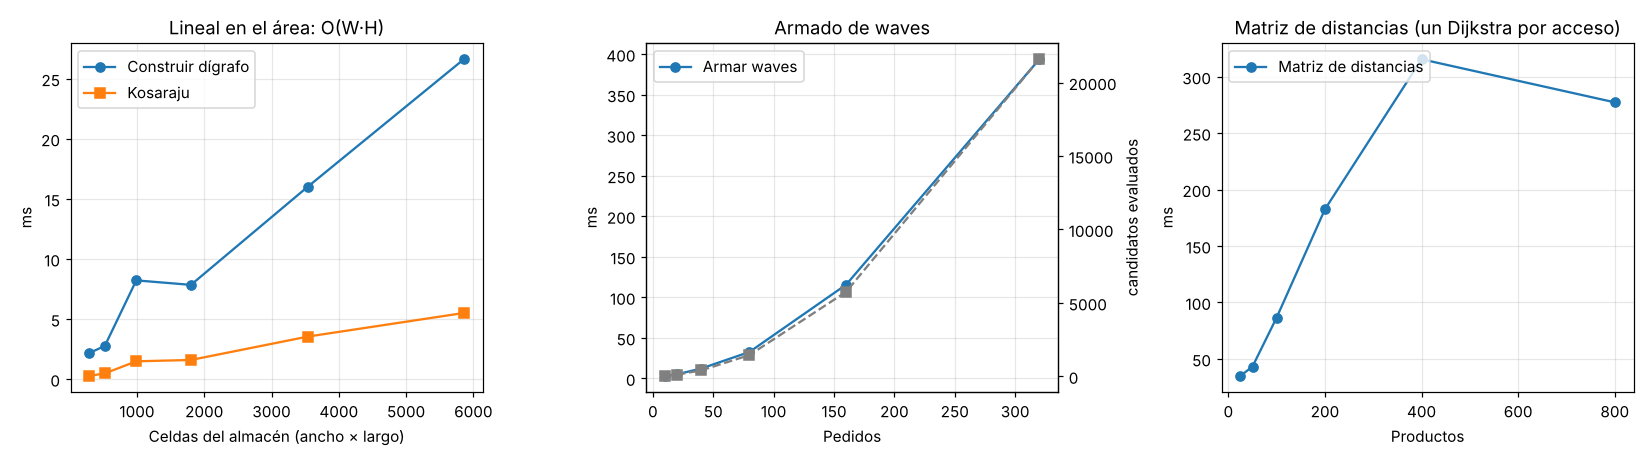
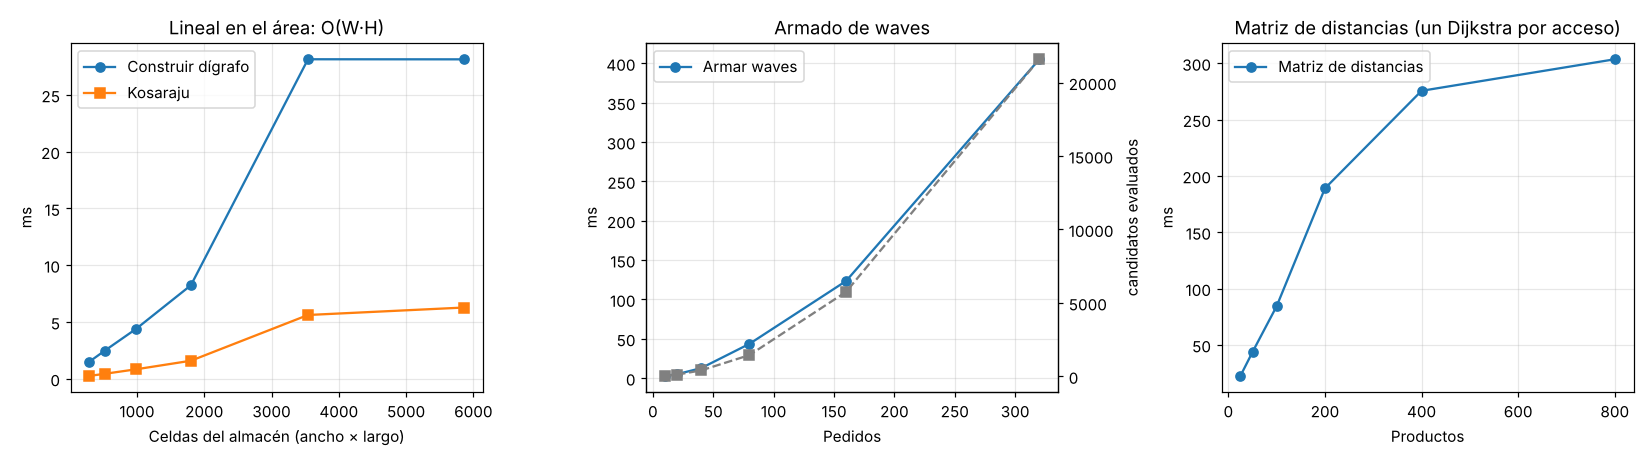
Experimentos con mediana de 5 corridas e informe actualizado
Claude-Session: https://claude.ai/code/session_01WT7RMUbr26hWHng93PW8B9

diff --git a/experimentos/ejecutar_experimentos.py b/experimentos/ejecutar_experimentos.py
@@ -48,7 +48,7 @@ SERIES = {
 }
 
 
-def medir(params, repeticiones=3):
+def medir(params, repeticiones=5):
     datos = ScenarioGenerator.generar_escenario_dict(**params)
     # Construcción del dígrafo + Kosaraju (mediana de varias corridas).
     tiempos, tiempos_kos = [], []

diff --git a/docs/experimentos/resultados.md b/docs/experimentos/resultados.md
@@ -8,109 +8,109 @@ Escenario base: {'cantidad_estantes': 24, 'cantidad_pasillos': 7, 'cantidad_prod
 
 | Valor | Celdas | Nodos | Productos | Pedidos | Waves | Estrategia | Distancia | Nodos visitados | Nodos explorados | Nodos expandidos | Rutas (ms) | Turnos | Esperas |
 |---|---|---|---|---|---|---|---|---|---|---|---|---|---|
-| 6 | 294 | 211 | 200 | 40 | 13 | Orden | 1870 | 931 | 2704 | 10957 | 23.50 | 502 | 9 |
-| 6 | 294 | 211 | 200 | 40 | 13 | Cercanía | 864 | 771 | 2414 | 4446 | 7.56 | 256 | 4 |
-| 12 | 522 | 356 | 200 | 40 | 13 | Orden | 3308 | 1751 | 4618 | 27309 | 37.85 | 862 | 11 |
-| 12 | 522 | 356 | 200 | 40 | 13 | Cercanía | 1492 | 1354 | 4444 | 10751 | 14.56 | 446 | 1 |
-| 24 | 990 | 680 | 200 | 40 | 13 | Orden | 2416 | 1530 | 7631 | 22505 | 33.17 | 643 | 0 |
-| 24 | 990 | 680 | 200 | 40 | 13 | Cercanía | 1590 | 1372 | 7051 | 15063 | 20.96 | 454 | 2 |
-| 48 | 1802 | 1204 | 200 | 40 | 13 | Orden | 3010 | 2164 | 13014 | 41407 | 87.74 | 815 | 2 |
-| 48 | 1802 | 1204 | 200 | 40 | 13 | Cercanía | 2106 | 1890 | 12304 | 25997 | 57.38 | 541 | 0 |
-| 96 | 3542 | 2368 | 200 | 40 | 14 | Orden | 4242 | 3351 | 28253 | 81046 | 124.38 | 1232 | 2 |
-| 96 | 3542 | 2368 | 200 | 40 | 14 | Cercanía | 3120 | 2942 | 25355 | 52632 | 80.33 | 897 | 0 |
-| 160 | 5858 | 3916 | 200 | 40 | 13 | Orden | 5250 | 4189 | 40321 | 130665 | 219.45 | 1365 | 2 |
-| 160 | 5858 | 3916 | 200 | 40 | 13 | Cercanía | 3820 | 3618 | 39416 | 86087 | 129.41 | 1011 | 0 |
+| 6 | 294 | 211 | 200 | 40 | 13 | Orden | 1870 | 931 | 2704 | 10957 | 16.33 | 502 | 9 |
+| 6 | 294 | 211 | 200 | 40 | 13 | Cercanía | 864 | 771 | 2414 | 4446 | 7.03 | 256 | 4 |
+| 12 | 522 | 356 | 200 | 40 | 13 | Orden | 3308 | 1751 | 4618 | 27309 | 36.09 | 862 | 11 |
+| 12 | 522 | 356 | 200 | 40 | 13 | Cercanía | 1492 | 1354 | 4444 | 10751 | 14.39 | 446 | 1 |
+| 24 | 990 | 680 | 200 | 40 | 13 | Orden | 2416 | 1530 | 7631 | 22505 | 30.17 | 643 | 0 |
+| 24 | 990 | 680 | 200 | 40 | 13 | Cercanía | 1590 | 1372 | 7051 | 15063 | 20.54 | 454 | 2 |
+| 48 | 1802 | 1204 | 200 | 40 | 13 | Orden | 3010 | 2164 | 13014 | 41407 | 58.32 | 815 | 2 |
+| 48 | 1802 | 1204 | 200 | 40 | 13 | Cercanía | 2106 | 1890 | 12304 | 25997 | 40.49 | 541 | 0 |
+| 96 | 3542 | 2368 | 200 | 40 | 14 | Orden | 4242 | 3351 | 28253 | 81046 | 119.30 | 1232 | 2 |
+| 96 | 3542 | 2368 | 200 | 40 | 14 | Cercanía | 3120 | 2942 | 25355 | 52632 | 77.79 | 897 | 0 |
+| 160 | 5858 | 3916 | 200 | 40 | 13 | Orden | 5250 | 4189 | 40321 | 130665 | 197.10 | 1365 | 2 |
+| 160 | 5858 | 3916 | 200 | 40 | 13 | Cercanía | 3820 | 3618 | 39416 | 86087 | 129.21 | 1011 | 0 |
 
 ### Cantidad de pedidos
 
 | Valor | Celdas | Nodos | Productos | Pedidos | Waves | Estrategia | Distancia | Nodos visitados | Nodos explorados | Nodos expandidos | Rutas (ms) | Turnos | Esperas |
 |---|---|---|---|---|---|---|---|---|---|---|---|---|---|
-| 10 | 962 | 652 | 200 | 10 | 3 | Orden | 464 | 260 | 1098 | 3889 | 5.36 | 146 | 0 |
-| 10 | 962 | 652 | 200 | 10 | 3 | Cercanía | 288 | 220 | 1065 | 2523 | 3.56 | 117 | 0 |
-| 20 | 962 | 652 | 200 | 20 | 6 | Orden | 1032 | 572 | 2676 | 9218 | 13.25 | 355 | 1 |
-| 20 | 962 | 652 | 200 | 20 | 6 | Cercanía | 552 | 473 | 2336 | 4738 | 6.93 | 176 | 0 |
-| 40 | 962 | 652 | 200 | 40 | 13 | Orden | 2448 | 1647 | 7271 | 24183 | 34.82 | 631 | 2 |
-| 40 | 962 | 652 | 200 | 40 | 13 | Cercanía | 1590 | 1419 | 7104 | 15680 | 22.22 | 431 | 0 |
-| 80 | 962 | 652 | 200 | 80 | 27 | Orden | 4510 | 3022 | 14603 | 45054 | 64.47 | 1213 | 2 |
-| 80 | 962 | 652 | 200 | 80 | 27 | Cercanía | 2720 | 2520 | 13217 | 25374 | 37.29 | 733 | 1 |
-| 160 | 962 | 652 | 200 | 160 | 52 | Orden | 8034 | 5648 | 28159 | 78779 | 109.32 | 2123 | 5 |
-| 160 | 962 | 652 | 200 | 160 | 52 | Cercanía | 5572 | 5080 | 26542 | 54039 | 76.79 | 1469 | 3 |
-| 320 | 962 | 652 | 200 | 320 | 100 | Orden | 13936 | 10597 | 54851 | 140030 | 221.02 | 3599 | 7 |
-| 320 | 962 | 652 | 200 | 320 | 100 | Cercanía | 10046 | 9272 | 51897 | 99753 | 151.46 | 2604 | 7 |
+| 10 | 962 | 652 | 200 | 10 | 3 | Orden | 464 | 260 | 1098 | 3889 | 5.30 | 146 | 0 |
+| 10 | 962 | 652 | 200 | 10 | 3 | Cercanía | 288 | 220 | 1065 | 2523 | 3.54 | 117 | 0 |
+| 20 | 962 | 652 | 200 | 20 | 6 | Orden | 1032 | 572 | 2676 | 9218 | 13.70 | 355 | 1 |
+| 20 | 962 | 652 | 200 | 20 | 6 | Cercanía | 552 | 473 | 2336 | 4738 | 7.54 | 176 | 0 |
+| 40 | 962 | 652 | 200 | 40 | 13 | Orden | 2448 | 1647 | 7271 | 24183 | 44.96 | 631 | 2 |
+| 40 | 962 | 652 | 200 | 40 | 13 | Cercanía | 1590 | 1419 | 7104 | 15680 | 30.16 | 431 | 0 |
+| 80 | 962 | 652 | 200 | 80 | 27 | Orden | 4510 | 3022 | 14603 | 45054 | 63.63 | 1213 | 2 |
+| 80 | 962 | 652 | 200 | 80 | 27 | Cercanía | 2720 | 2520 | 13217 | 25374 | 36.25 | 733 | 1 |
+| 160 | 962 | 652 | 200 | 160 | 52 | Orden | 8034 | 5648 | 28159 | 78779 | 110.18 | 2123 | 5 |
+| 160 | 962 | 652 | 200 | 160 | 52 | Cercanía | 5572 | 5080 | 26542 | 54039 | 87.66 | 1469 | 3 |
+| 320 | 962 | 652 | 200 | 320 | 100 | Orden | 13936 | 10597 | 54851 | 140030 | 198.81 | 3599 | 7 |
+| 320 | 962 | 652 | 200 | 320 | 100 | Cercanía | 10046 | 9272 | 51897 | 99753 | 145.29 | 2604 | 7 |
 
 ### Cantidad de productos
 
 | Valor | Celdas | Nodos | Productos | Pedidos | Waves | Estrategia | Distancia | Nodos visitados | Nodos explorados | Nodos expandidos | Rutas (ms) | Turnos | Esperas |
 |---|---|---|---|---|---|---|---|---|---|---|---|---|---|
-| 25 | 962 | 652 | 25 | 40 | 13 | Orden | 2414 | 2037 | 8400 | 28378 | 53.93 | 643 | 2 |
-| 25 | 962 | 652 | 25 | 40 | 13 | Cercanía | 1784 | 1657 | 8121 | 18684 | 27.21 | 496 | 1 |
-| 50 | 962 | 652 | 50 | 40 | 13 | Orden | 2574 | 2068 | 8143 | 28032 | 39.58 | 712 | 1 |
-| 50 | 962 | 652 | 50 | 40 | 13 | Cercanía | 2008 | 1771 | 8090 | 19848 | 30.13 | 567 | 0 |
-| 100 | 962 | 652 | 100 | 40 | 13 | Orden | 3904 | 2689 | 8375 | 48185 | 68.17 | 1067 | 3 |
-| 100 | 962 | 652 | 100 | 40 | 13 | Cercanía | 2264 | 1999 | 8150 | 22857 | 33.10 | 612 | 0 |
-| 200 | 962 | 652 | 200 | 40 | 13 | Orden | 2448 | 1647 | 7271 | 24183 | 33.28 | 631 | 2 |
-| 200 | 962 | 652 | 200 | 40 | 13 | Cercanía | 1590 | 1419 | 7104 | 15680 | 22.60 | 431 | 0 |
-| 400 | 962 | 652 | 400 | 40 | 13 | Orden | 3416 | 2269 | 8413 | 38147 | 56.47 | 901 | 5 |
-| 400 | 962 | 652 | 400 | 40 | 13 | Cercanía | 2216 | 1899 | 8296 | 22632 | 34.21 | 658 | 0 |
-| 800 | 962 | 652 | 800 | 40 | 13 | Orden | 3446 | 2432 | 8294 | 38371 | 55.31 | 894 | 1 |
-| 800 | 962 | 652 | 800 | 40 | 13 | Cercanía | 2038 | 1858 | 7894 | 19768 | 28.44 | 587 | 0 |
+| 25 | 962 | 652 | 25 | 40 | 13 | Orden | 2414 | 2037 | 8400 | 28378 | 39.38 | 643 | 2 |
+| 25 | 962 | 652 | 25 | 40 | 13 | Cercanía | 1784 | 1657 | 8121 | 18684 | 26.66 | 496 | 1 |
+| 50 | 962 | 652 | 50 | 40 | 13 | Orden | 2574 | 2068 | 8143 | 28032 | 40.25 | 712 | 1 |
+| 50 | 962 | 652 | 50 | 40 | 13 | Cercanía | 2008 | 1771 | 8090 | 19848 | 31.99 | 567 | 0 |
+| 100 | 962 | 652 | 100 | 40 | 13 | Orden | 3904 | 2689 | 8375 | 48185 | 76.08 | 1067 | 3 |
+| 100 | 962 | 652 | 100 | 40 | 13 | Cercanía | 2264 | 1999 | 8150 | 22857 | 34.06 | 612 | 0 |
+| 200 | 962 | 652 | 200 | 40 | 13 | Orden | 2448 | 1647 | 7271 | 24183 | 47.59 | 631 | 2 |
+| 200 | 962 | 652 | 200 | 40 | 13 | Cercanía | 1590 | 1419 | 7104 | 15680 | 22.23 | 431 | 0 |
+| 400 | 962 | 652 | 400 | 40 | 13 | Orden | 3416 | 2269 | 8413 | 38147 | 53.48 | 901 | 5 |
+| 400 | 962 | 652 | 400 | 40 | 13 | Cercanía | 2216 | 1899 | 8296 | 22632 | 33.70 | 658 | 0 |
+| 800 | 962 | 652 | 800 | 40 | 13 | Orden | 3446 | 2432 | 8294 | 38371 | 54.85 | 894 | 1 |
+| 800 | 962 | 652 | 800 | 40 | 13 | Cercanía | 2038 | 1858 | 7894 | 19768 | 30.05 | 587 | 0 |
 
 ### Localización de los productos
 
 | Valor | Celdas | Nodos | Productos | Pedidos | Waves | Estrategia | Distancia | Nodos visitados | Nodos explorados | Nodos expandidos | Rutas (ms) | Turnos | Esperas |
 |---|---|---|---|---|---|---|---|---|---|---|---|---|---|
-| CERCA_DESPACHO | 962 | 652 | 200 | 40 | 13 | Orden | 3594 | 2228 | 8323 | 44972 | 92.67 | 1010 | 4 |
-| CERCA_DESPACHO | 962 | 652 | 200 | 40 | 13 | Cercanía | 1902 | 1717 | 8035 | 19537 | 32.92 | 505 | 2 |
-| POR_RACK | 962 | 652 | 200 | 40 | 12 | Orden | 3242 | 1539 | 7604 | 39588 | 59.96 | 857 | 1 |
-| POR_RACK | 962 | 652 | 200 | 40 | 12 | Cercanía | 1476 | 1281 | 6866 | 15772 | 24.56 | 412 | 0 |
-| DISTRIBUIDA | 962 | 652 | 200 | 40 | 13 | Orden | 2448 | 1647 | 7271 | 24183 | 34.11 | 631 | 2 |
-| DISTRIBUIDA | 962 | 652 | 200 | 40 | 13 | Cercanía | 1590 | 1419 | 7104 | 15680 | 22.14 | 431 | 0 |
+| CERCA_DESPACHO | 962 | 652 | 200 | 40 | 13 | Orden | 3594 | 2228 | 8323 | 44972 | 106.65 | 1010 | 4 |
+| CERCA_DESPACHO | 962 | 652 | 200 | 40 | 13 | Cercanía | 1902 | 1717 | 8035 | 19537 | 44.72 | 505 | 2 |
+| POR_RACK | 962 | 652 | 200 | 40 | 12 | Orden | 3242 | 1539 | 7604 | 39588 | 56.04 | 857 | 1 |
+| POR_RACK | 962 | 652 | 200 | 40 | 12 | Cercanía | 1476 | 1281 | 6866 | 15772 | 22.87 | 412 | 0 |
+| DISTRIBUIDA | 962 | 652 | 200 | 40 | 13 | Orden | 2448 | 1647 | 7271 | 24183 | 33.82 | 631 | 2 |
+| DISTRIBUIDA | 962 | 652 | 200 | 40 | 13 | Cercanía | 1590 | 1419 | 7104 | 15680 | 22.68 | 431 | 0 |
 
 ### Cantidad de pasillos
 
 | Valor | Celdas | Nodos | Productos | Pedidos | Waves | Estrategia | Distancia | Nodos visitados | Nodos explorados | Nodos expandidos | Rutas (ms) | Turnos | Esperas |
 |---|---|---|---|---|---|---|---|---|---|---|---|---|---|
-| 3 | 1010 | 711 | 200 | 40 | 13 | Orden | 3368 | 2265 | 7660 | 19712 | 24.36 | 878 | 0 |
-| 3 | 1010 | 711 | 200 | 40 | 13 | Cercanía | 2686 | 2278 | 7339 | 15687 | 21.18 | 695 | 7 |
-| 5 | 954 | 644 | 200 | 40 | 12 | Orden | 2466 | 1601 | 6763 | 20786 | 28.51 | 697 | 1 |
-| 5 | 954 | 644 | 200 | 40 | 12 | Cercanía | 1522 | 1376 | 5823 | 12444 | 17.26 | 442 | 2 |
-| 7 | 962 | 652 | 200 | 40 | 13 | Orden | 2448 | 1647 | 7271 | 24183 | 35.94 | 631 | 2 |
-| 7 | 962 | 652 | 200 | 40 | 13 | Cercanía | 1590 | 1419 | 7104 | 15680 | 22.86 | 431 | 0 |
-| 9 | 986 | 676 | 200 | 40 | 13 | Orden | 2294 | 1505 | 7568 | 23444 | 41.90 | 623 | 1 |
-| 9 | 986 | 676 | 200 | 40 | 13 | Cercanía | 1382 | 1192 | 6561 | 12718 | 21.45 | 404 | 1 |
-| 13 | 1050 | 740 | 200 | 40 | 13 | Orden | 2222 | 1355 | 7237 | 23058 | 32.01 | 665 | 1 |
-| 13 | 1050 | 740 | 200 | 40 | 13 | Cercanía | 1288 | 1081 | 6307 | 12522 | 17.77 | 350 | 0 |
-| 17 | 1386 | 1076 | 200 | 40 | 13 | Orden | 2482 | 1535 | 9347 | 30738 | 53.22 | 875 | 1 |
-| 17 | 1386 | 1076 | 200 | 40 | 13 | Cercanía | 1394 | 1256 | 9490 | 15551 | 22.64 | 442 | 3 |
+| 3 | 1010 | 711 | 200 | 40 | 13 | Orden | 3368 | 2265 | 7660 | 19712 | 25.59 | 878 | 0 |
+| 3 | 1010 | 711 | 200 | 40 | 13 | Cercanía | 2686 | 2278 | 7339 | 15687 | 21.60 | 695 | 7 |
+| 5 | 954 | 644 | 200 | 40 | 12 | Orden | 2466 | 1601 | 6763 | 20786 | 29.19 | 697 | 1 |
+| 5 | 954 | 644 | 200 | 40 | 12 | Cercanía | 1522 | 1376 | 5823 | 12444 | 17.41 | 442 | 2 |
+| 7 | 962 | 652 | 200 | 40 | 13 | Orden | 2448 | 1647 | 7271 | 24183 | 34.68 | 631 | 2 |
+| 7 | 962 | 652 | 200 | 40 | 13 | Cercanía | 1590 | 1419 | 7104 | 15680 | 22.04 | 431 | 0 |
+| 9 | 986 | 676 | 200 | 40 | 13 | Orden | 2294 | 1505 | 7568 | 23444 | 33.67 | 623 | 1 |
+| 9 | 986 | 676 | 200 | 40 | 13 | Cercanía | 1382 | 1192 | 6561 | 12718 | 18.71 | 404 | 1 |
+| 13 | 1050 | 740 | 200 | 40 | 13 | Orden | 2222 | 1355 | 7237 | 23058 | 36.34 | 665 | 1 |
+| 13 | 1050 | 740 | 200 | 40 | 13 | Cercanía | 1288 | 1081 | 6307 | 12522 | 19.38 | 350 | 0 |
+| 17 | 1386 | 1076 | 200 | 40 | 13 | Orden | 2482 | 1535 | 9347 | 30738 | 45.14 | 875 | 1 |
+| 17 | 1386 | 1076 | 200 | 40 | 13 | Cercanía | 1394 | 1256 | 9490 | 15551 | 23.70 | 442 | 3 |
 
 ### Tiempo de cada etapa (estrategia Cercanía)
 
 | Serie | Valor | Celdas | Nodos | Aristas | Dígrafo (ms) | Kosaraju (ms) | Matriz (ms) | Pares matriz | Waves (ms) | Candidatos evaluados |
 |---|---|---|---|---|---|---|---|---|---|---|
-| tamano | 6 | 294 | 211 | 552 | 2.18 | 0.27 | 23.1 | 5184 | 12.28 | 383 |
-| tamano | 12 | 522 | 356 | 900 | 2.76 | 0.48 | 70.8 | 20736 | 11.21 | 402 |
-| tamano | 24 | 990 | 680 | 1754 | 8.22 | 1.48 | 252.0 | 40000 | 14.52 | 423 |
-| tamano | 48 | 1802 | 1204 | 3090 | 7.84 | 1.59 | 412.1 | 40000 | 11.27 | 381 |
-| tamano | 96 | 3542 | 2368 | 6150 | 16.03 | 3.54 | 698.7 | 40000 | 12.16 | 371 |
-| tamano | 160 | 5858 | 3916 | 10238 | 26.62 | 5.50 | 1161.0 | 40000 | 13.04 | 350 |
-| pedidos | 10 | 962 | 652 | 1678 | 4.60 | 0.84 | 182.9 | 40000 | 3.05 | 30 |
-| pedidos | 20 | 962 | 652 | 1678 | 4.70 | 0.83 | 186.2 | 40000 | 5.06 | 115 |
-| pedidos | 40 | 962 | 652 | 1678 | 4.45 | 0.82 | 184.5 | 40000 | 12.10 | 404 |
-| pedidos | 80 | 962 | 652 | 1678 | 4.70 | 0.87 | 182.0 | 40000 | 32.61 | 1447 |
-| pedidos | 160 | 962 | 652 | 1678 | 4.83 | 0.85 | 176.0 | 40000 | 115.56 | 5752 |
-| pedidos | 320 | 962 | 652 | 1678 | 5.09 | 0.87 | 176.8 | 40000 | 393.69 | 21592 |
-| productos | 25 | 962 | 652 | 1678 | 4.39 | 0.84 | 34.9 | 625 | 12.07 | 405 |
-| productos | 50 | 962 | 652 | 1678 | 4.33 | 0.84 | 43.2 | 2500 | 7.78 | 365 |
-| productos | 100 | 962 | 652 | 1678 | 4.43 | 0.85 | 86.6 | 10000 | 9.06 | 367 |
-| productos | 200 | 962 | 652 | 1678 | 4.45 | 0.85 | 182.6 | 40000 | 11.51 | 404 |
-| productos | 400 | 962 | 652 | 1678 | 4.77 | 0.83 | 315.5 | 82944 | 13.14 | 340 |
-| productos | 800 | 962 | 652 | 1678 | 5.56 | 0.84 | 277.3 | 82944 | 21.28 | 374 |
-| localizacion | CERCA_DESPACHO | 962 | 652 | 1678 | 5.22 | 1.36 | 208.1 | 40000 | 11.10 | 389 |
-| localizacion | POR_RACK | 962 | 652 | 1678 | 4.67 | 0.92 | 184.2 | 40000 | 10.26 | 357 |
-| localizacion | DISTRIBUIDA | 962 | 652 | 1678 | 4.82 | 0.87 | 191.0 | 40000 | 11.91 | 404 |
-| pasillos | 3 | 1010 | 711 | 1720 | 4.74 | 0.83 | 200.6 | 40000 | 11.17 | 392 |
-| pasillos | 5 | 954 | 644 | 1602 | 4.37 | 0.78 | 179.3 | 40000 | 14.42 | 381 |
-| pasillos | 7 | 962 | 652 | 1678 | 4.47 | 0.82 | 184.7 | 40000 | 11.20 | 404 |
-| pasillos | 9 | 986 | 676 | 1788 | 4.94 | 1.00 | 200.0 | 40000 | 11.73 | 400 |
-| pasillos | 13 | 1050 | 740 | 2042 | 6.36 | 1.50 | 221.1 | 40000 | 11.38 | 402 |
-| pasillos | 17 | 1386 | 1076 | 3242 | 7.91 | 1.52 | 298.7 | 40000 | 11.87 | 411 |
+| tamano | 6 | 294 | 211 | 552 | 1.51 | 0.25 | 20.1 | 5184 | 13.27 | 383 |
+| tamano | 12 | 522 | 356 | 900 | 2.47 | 0.44 | 69.9 | 20736 | 11.59 | 402 |
+| tamano | 24 | 990 | 680 | 1754 | 4.41 | 0.83 | 197.3 | 40000 | 11.55 | 423 |
+| tamano | 48 | 1802 | 1204 | 3090 | 8.23 | 1.59 | 331.9 | 40000 | 10.68 | 381 |
+| tamano | 96 | 3542 | 2368 | 6150 | 28.13 | 5.61 | 858.5 | 40000 | 11.71 | 371 |
+| tamano | 160 | 5858 | 3916 | 10238 | 28.13 | 6.27 | 1103.5 | 40000 | 12.23 | 350 |
+| pedidos | 10 | 962 | 652 | 1678 | 4.76 | 0.84 | 180.8 | 40000 | 2.80 | 30 |
+| pedidos | 20 | 962 | 652 | 1678 | 4.59 | 0.83 | 195.8 | 40000 | 4.95 | 115 |
+| pedidos | 40 | 962 | 652 | 1678 | 4.70 | 0.91 | 187.5 | 40000 | 12.67 | 404 |
+| pedidos | 80 | 962 | 652 | 1678 | 8.37 | 1.46 | 210.6 | 40000 | 43.53 | 1447 |
+| pedidos | 160 | 962 | 652 | 1678 | 4.75 | 0.85 | 235.5 | 40000 | 123.37 | 5752 |
+| pedidos | 320 | 962 | 652 | 1678 | 5.35 | 0.87 | 189.6 | 40000 | 405.13 | 21592 |
+| productos | 25 | 962 | 652 | 1678 | 4.12 | 0.83 | 22.4 | 625 | 8.43 | 405 |
+| productos | 50 | 962 | 652 | 1678 | 4.34 | 0.86 | 43.6 | 2500 | 8.19 | 365 |
+| productos | 100 | 962 | 652 | 1678 | 4.32 | 0.82 | 84.3 | 10000 | 9.34 | 367 |
+| productos | 200 | 962 | 652 | 1678 | 4.97 | 0.89 | 188.9 | 40000 | 12.27 | 404 |
+| productos | 400 | 962 | 652 | 1678 | 4.80 | 0.84 | 275.5 | 82944 | 11.98 | 340 |
+| productos | 800 | 962 | 652 | 1678 | 5.33 | 0.83 | 303.5 | 82944 | 17.70 | 374 |
+| localizacion | CERCA_DESPACHO | 962 | 652 | 1678 | 4.64 | 0.85 | 192.5 | 40000 | 11.59 | 389 |
+| localizacion | POR_RACK | 962 | 652 | 1678 | 4.38 | 0.85 | 183.2 | 40000 | 10.02 | 357 |
+| localizacion | DISTRIBUIDA | 962 | 652 | 1678 | 4.38 | 0.84 | 183.7 | 40000 | 11.94 | 404 |
+| pasillos | 3 | 1010 | 711 | 1720 | 4.40 | 0.81 | 192.2 | 40000 | 11.99 | 392 |
+| pasillos | 5 | 954 | 644 | 1602 | 4.34 | 0.80 | 183.2 | 40000 | 11.77 | 381 |
+| pasillos | 7 | 962 | 652 | 1678 | 4.63 | 0.86 | 208.4 | 40000 | 16.24 | 404 |
+| pasillos | 9 | 986 | 676 | 1788 | 4.67 | 0.86 | 193.9 | 40000 | 11.37 | 400 |
+| pasillos | 13 | 1050 | 740 | 2042 | 4.92 | 1.01 | 213.2 | 40000 | 12.25 | 402 |
+| pasillos | 17 | 1386 | 1076 | 3242 | 7.67 | 1.62 | 396.3 | 40000 | 11.39 | 411 |

diff --git a/docs/INFORME.md b/docs/INFORME.md
@@ -232,9 +232,9 @@ candidatos evaluados al armar waves. Las tablas completas están en
 
 | Serie | Entrada | Resultado |
 |---|---|---|
-| Tamaño del almacén | 294 → 5858 celdas (×20) | Construir el dígrafo: 2,2 → 26,6 ms (×12, con un costo fijo que pesa en los mapas chicos). Kosaraju: 0,27 → 5,5 ms (×20). **Lineal en el área**, como predice Θ(W·H). La matriz de distancias crece más rápido (23 → 1161 ms), porque cada uno de los P' Dijkstras recorre un grafo más grande: O(P'·N log N). |
-| Cantidad de pedidos | 10 → 320 (×32) | Candidatos evaluados: 30 → 21 592 (×720 ≈ 32¹·⁹). Tiempo de waves: 3,1 → 394 ms. **Crecimiento casi cuadrático**, como predice O(n²). |
-| Cantidad de productos | 25 → 800 | Pares en la matriz: 625 → 82 944 (P'²). Deja de crecer cuando todas las celdas de rack ya tienen producto (P' se satura en 288). Con el mapa fijo, su tiempo crece con P' (35 → 316 ms) y es la etapa más cara de cargar un escenario. |
+| Tamaño del almacén | 294 → 5858 celdas (×20) | Construir el dígrafo: 1,5 → 28,1 ms (×19). Kosaraju: 0,25 → 6,3 ms (×25). **Lineal en el área**, como predice Θ(W·H). La matriz de distancias crece más rápido (20 → 1104 ms), porque cada uno de los P' Dijkstras recorre un grafo más grande: O(P'·N log N). |
+| Cantidad de pedidos | 10 → 320 (×32) | Candidatos evaluados: 30 → 21 592 (×720 ≈ 32¹·⁹). Tiempo de waves: 2,8 → 405 ms. **Crecimiento casi cuadrático**, como predice O(n²). |
+| Cantidad de productos | 25 → 800 | Pares en la matriz: 625 → 82 944 (P'²). Deja de crecer cuando todas las celdas de rack ya tienen producto (P' se satura en 288). Con el mapa fijo, su tiempo crece con P' (22 → 275 ms) y es la etapa más cara de cargar un escenario. |
 
 ### 5.2 Comparación de estrategias
 
@@ -245,11 +245,11 @@ Resumen por serie (Cercanía frente a Orden):
 
 | Serie | Ahorro de distancia | Nodos expandidos (Cercanía/Orden) | Tiempo (Cercanía/Orden) |
 |---|---|---|---|
-| Tamaño (6 → 160 estantes) | 54 % → 27 % | 0,39 – 0,67 | 0,32 – 0,65 |
-| Pedidos (10 → 320) | 28 % – 47 % | 0,51 – 0,71 | 0,52 – 0,70 |
-| Productos (25 → 800) | 22 % – 42 % | 0,47 – 0,71 | 0,49 – 0,76 |
-| Localización | Distribuida 35 %, por rack 55 %, cerca del despacho 47 % | 0,40 – 0,65 | 0,36 – 0,65 |
-| Pasillos (3 → 17) | 20 % → 44 % | 0,51 – 0,80 | 0,43 – 0,87 |
+| Tamaño (6 → 160 estantes) | 54 % → 27 % | 0,39 – 0,67 | 0,40 – 0,69 |
+| Pedidos (10 → 320) | 28 % – 47 % | 0,51 – 0,71 | 0,55 – 0,80 |
+| Productos (25 → 800) | 22 % – 42 % | 0,47 – 0,71 | 0,45 – 0,79 |
+| Localización | Distribuida 35 %, por rack 55 %, cerca del despacho 47 % | 0,40 – 0,65 | 0,41 – 0,67 |
+| Pasillos (3 → 17) | 20 % → 44 % | 0,51 – 0,80 | 0,52 – 0,84 |
 
 Además se compararon viaje por viaje 691 viajes (mismo picker, misma wave),
 en 54 escenarios con distinto tamaño, pasillos, localización y cantidad de
@@ -263,6 +263,9 @@ pedidos:
 
 - Cercanía casi siempre recorre menos, porque evita idas y vueltas. Orden
   sigue el orden de los pedidos, que no tiene relación con el mapa.
+- Los tiempos son de una sola corrida y varían un 10–20 % entre ejecuciones;
+  las distancias y los nodos expandidos son exactos (el sistema es
+  determinista).
 - Cercanía también **calcula más rápido**, aunque tenga que elegir el destino
   en cada paso. Su Dijkstra multidestino se detiene en el destino más cercano
   y explora menos que un Dijkstra hacia un destino lejano: expande entre un
@@ -329,7 +332,7 @@ iguales hay muchos caminos con la misma longitud (empates).
 La construcción del grafo y Kosaraju crecen linealmente con el área: con 20
 veces más celdas, tardan unas 20 veces más (sección 5.1). Cada búsqueda de
 Dijkstra explora más nodos, así que el tiempo de cálculo de rutas crece con N:
-de 23 a 219 ms para Orden en la serie de tamaño. La distancia recorrida crece
+de 16 a 197 ms para Orden en la serie de tamaño. La distancia recorrida crece
 porque los productos quedan más lejos. El armado de waves casi no cambia,
 porque depende de la cantidad de pedidos y de la matriz precalculada. Lo que
 más crece es la matriz de distancias: un Dijkstra completo por cada acceso.
@@ -364,7 +367,7 @@ Cercanía, en todas las configuraciones de la sección 5 y en el 97,4 % de los
 viajes comparados uno a uno.
 
 **12. ¿Cuál presenta menor tiempo de ejecución?**
-También Cercanía en casi todos los casos (entre 13 % y 68 % menos tiempo),
+También Cercanía, en todas las configuraciones medidas (entre 16 % y 60 % menos tiempo),
 porque cada búsqueda se detiene en el destino más cercano. Orden puede ser
 más rápida cuando los pedidos ya vienen ordenados por cercanía, porque cada
 tramo es corto.
